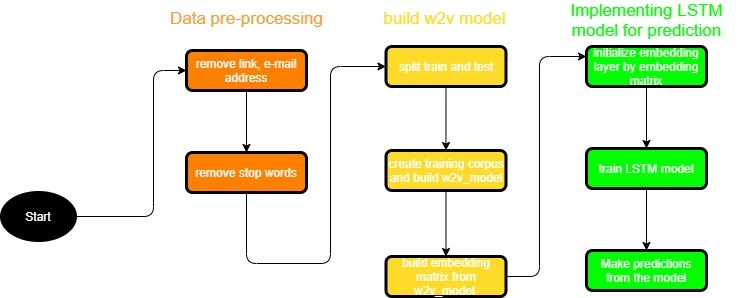
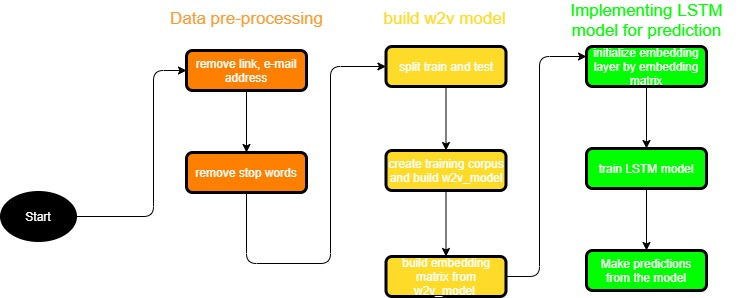
update

diff --git a/templates/classification.html b/templates/classification.html
@@ -164,7 +164,7 @@
             <div class="col-8 col-sm-6">
                 <br>
                 <p>下圖為我們訓練出的 LSTM MODEL的結果</p>
-                <img class="img-responsive" src="{{ url_for('static',filename='img/pie/LSTM1.PNG') }}" alt="Our Office">
+                <img class="img-responsive" src="{{ url_for('static',filename='img/pie/LSTM1.png') }}" alt="Our Office">
             </div>
         </div>
         <div class="row">
